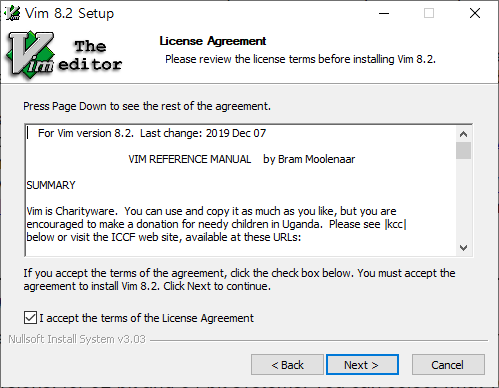
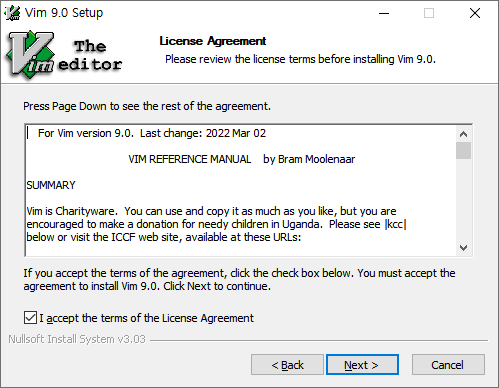
.

diff --git a/_posts/blog/2020-07-10-powershell cmd vi.md b/_posts/blog/2020-07-10-powershell cmd vi.md
@@ -46,9 +46,9 @@ cmd와 Powershell 양쪽에서 쓰려면 bat파일을 만들면 된다.
 vim을 다운받아서 설치하는 경우<a id="download-vim"></a>
 ----
 
-[vim.org](https://www.vim.org/download.php#pc){:target="_blank"}에서 gvim82.exe를 다운받아서 실행한다.
+[vim.org](https://www.vim.org/download.php#pc){:target="_blank"}에서 [gvim90.exe](https://ftp.nluug.nl/pub/vim/pc/gvim90.exe){:target="_blank"}를 다운받아서 실행한다.
 
-![](../img/2020-07-10-powershell%20cmd%20vi/2021-03-21-23-27-00.png)
+![](../../img/2020-07-10-powershell%20cmd%20vi/2021-03-21-23-27-00.png)
 
 <!-- ![](../img/2020-07-10-powershell%20cmd%20vi/2021-03-21-23-27-43.png) -->
 
@@ -64,7 +64,7 @@ m하나 더 누르는게 귀찮으니, vi.bat로 복사본을 만들자.
 다운받아 설치 할 경우 아래처럼 한글로 출력된다.  
 ![](../img/2020-07-10-powershell%20cmd%20vi/2021-03-22-00-07-16.png){: width="600px"}
 
-영어로 변경하고 싶다면 C:\Program Files (x86)\Vim\vim82\lang 폴더를 삭제하자.😑  
+영어로 변경하고 싶다면 C:\Program Files (x86)\Vim\vim90\lang 폴더를 삭제하자.😑  
 
 삭제하지 않고 변경하려면 관리자 권한으로
 `vi "C:\Program Files (x86)\Vim\_vimrc"`를 실행하고 첫 줄에 `language messages en`를 추가하자.  
